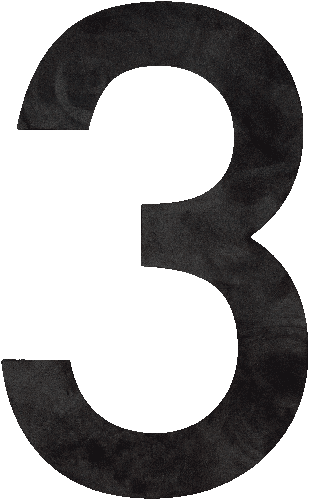
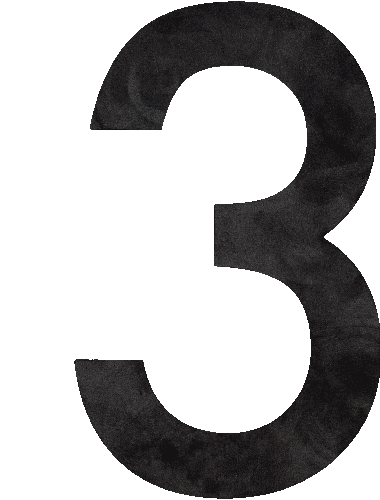
add hand pointer, adjust year kernings, add dropshadows

diff --git a/static/css/main.css b/static/css/main.css
@@ -128,7 +128,7 @@ figure {
 #dot img {
     height: 12px;
     width: 12px;
-	margin-left: 14px;
+	margin-left: 30px;
     display: inline-block;
 }
 
@@ -234,6 +234,10 @@ figure {
     z-index: 10;
 }
 
+#hand {
+    width: 26px;
+}
+
 
 /*-----------------------------------------------
   classes
@@ -249,6 +253,7 @@ figure {
     display: block;
     -webkit-filter: grayscale(100%); /* Chrome, Safari, Opera */
     filter: grayscale(100%);
+    box-shadow:2px 2px 5px #CCCCCC;
 }
 
 .image {
@@ -317,14 +322,16 @@ figure {
 
 .year-container {
     padding: 10px;
+    padding-bottom: 20px;
     display: block;
+    white-space: nowrap;
 }
 
 .digit-container > img {
     max-width: 100%;
     max-height: 100%;
     width: initial;
-    padding-left: 20px;
+    padding-left: 30px;
 }
 
 .digit-container {

diff --git a/views/event.php b/views/event.php
@@ -16,9 +16,9 @@ $media_dims = array();
             <!-- <p id="orientation" class="controls centered white">Rotate device to determine orientation</p> -->
         </div>
         <img id="gallery-img" src="">
-		<div id="gallery-caption">
-            <? echo $caption; ?>
-        </div>
+    		<div id="gallery-caption">
+                <? echo $caption; ?>
+            </div>
 	</div>
 
 
@@ -62,7 +62,7 @@ $media_dims = array();
             echo $b_arr[$i] . "<br />";
             $report_url = $host.implode("/", array_slice($uu->urls, 0, count($uu->urls)-1));
             ?><div class="now">
-                <a href="<? echo $report_url; ?>">Go back to <? echo $year; ?>. . . </a>
+                <a href="<? echo $report_url; ?>"><img id="hand" src="<? echo $host; ?>media/png/hand-left.png"></a>
             </div>
         </div>
     </div>

diff --git a/views/head.php b/views/head.php
@@ -91,11 +91,10 @@ $js_back = "javascript:history.back();";
 				Contemporary Art, Nicosia, Cyprus since the end of 2012.<?
 				if ($view == "a-z") {
 					?><div id="year-select">
-						Select a project .&nbsp;.&nbsp;.&nbsp;
 					</div><?
 				} else {
 					?><div id="year-select">
-						Select a year .&nbsp;.&nbsp;.&nbsp;
+						Choose a year <img id="hand" class="blink" src="media/png/hand.png">
 					</div><?
 				}
 			?></div><?
